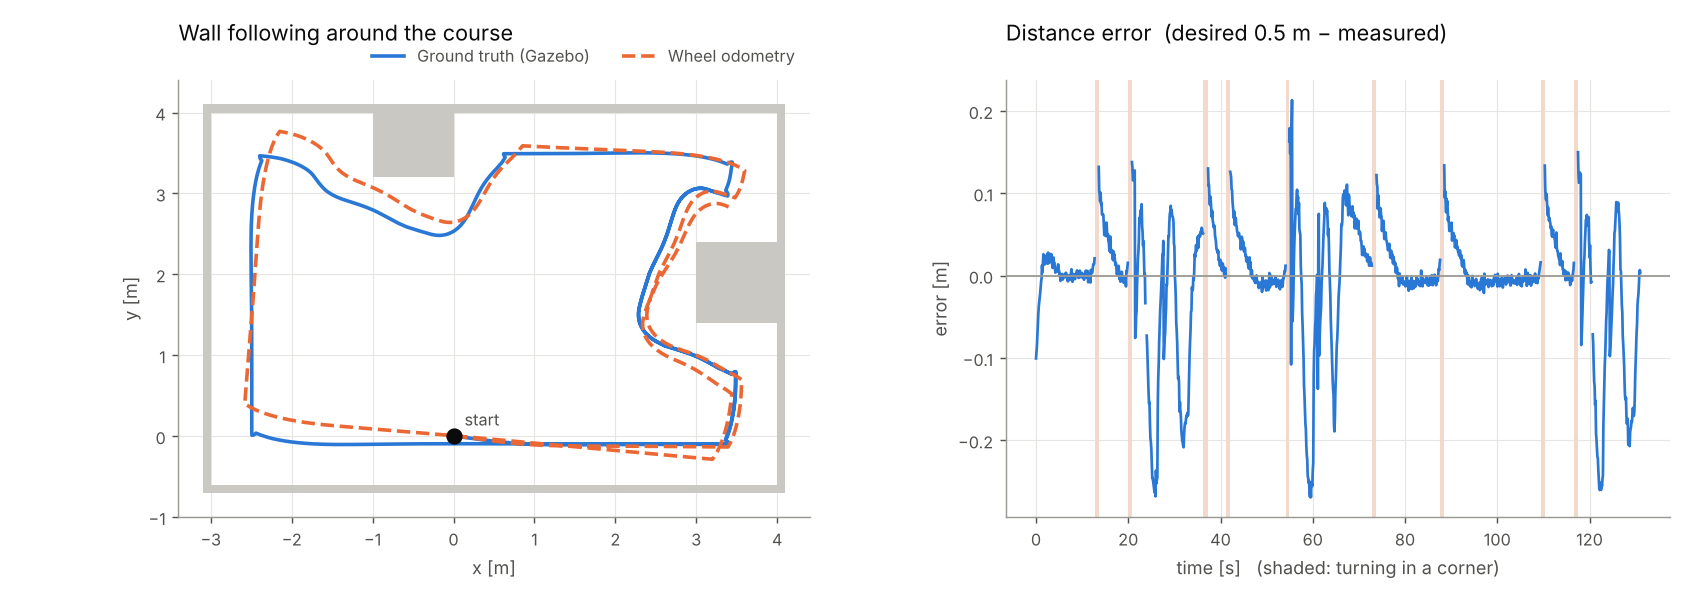
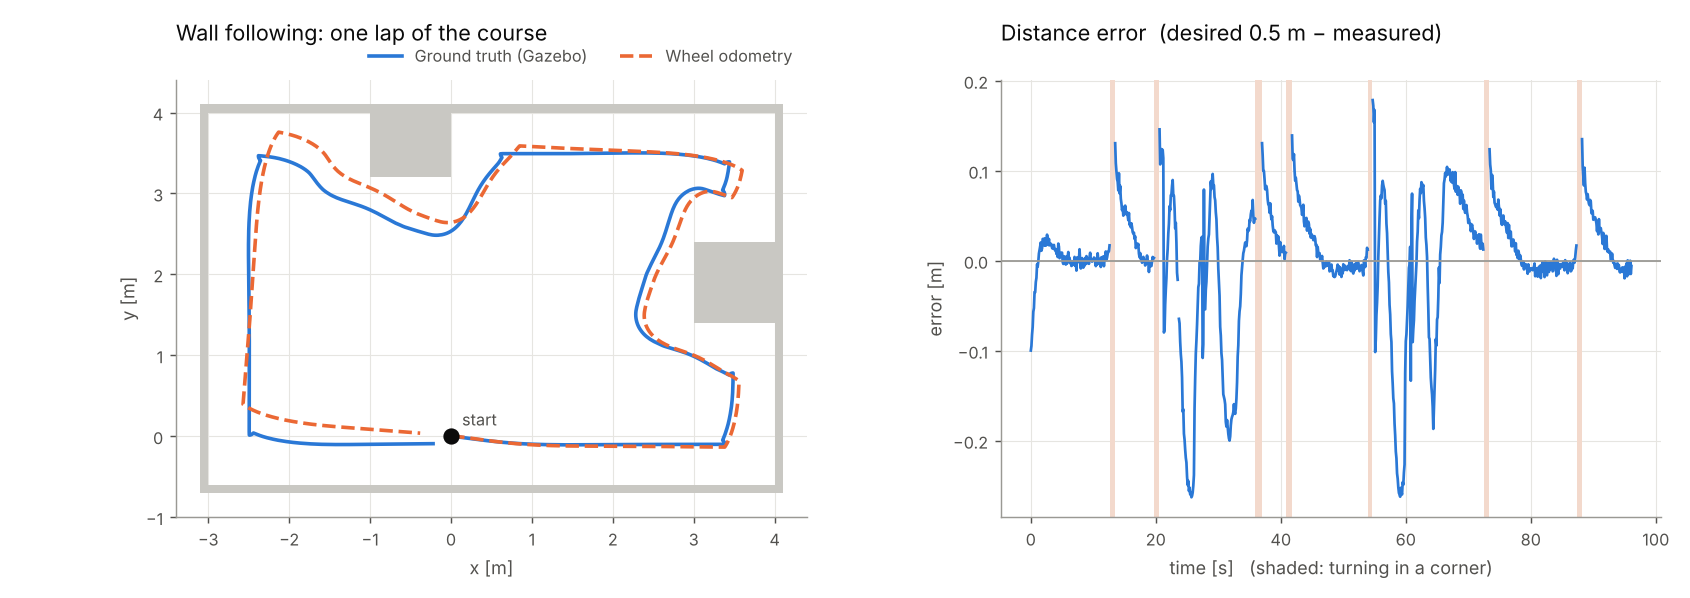
Update results to match latest logs

diff --git a/README.md b/README.md
@@ -25,17 +25,17 @@ A two-wheeled differential-drive robot in **Gazebo Harmonic** that **follows wal
 
 ## Results (from a headless Gazebo run)
 
-**Wall following:** one lap of a course with straight walls plus inside and outside corners takes 97 s, and the robot never touches a wall (its centre stays at least 0.36 m from every wall).
+**Wall following:** one lap of a course with straight walls plus inside and outside corners takes 96 s, and the robot never touches a wall (its centre stays at least 0.37 m from every wall).
 
 ![Wall following trajectory and distance error](docs/media/wall_follow.png)
 
 | Metric (target distance 0.50 m) | Value |
 |---|---|
-| Median distance error while following | **2.2 cm** |
-| RMS distance error while following | 7.8 cm |
-| 90th percentile error | 13 cm (the peaks come right after corners) |
+| Median distance error while following | **2.5 cm** |
+| RMS distance error while following | 7.4 cm |
+| 90th percentile error | 11.8 cm (the peaks come right after corners) |
 
-**Waypoint following:** visits 5 waypoints and returns to the start in **31 s**, stopping within the 12 cm goal tolerance.
+**Waypoint following:** visits 5 waypoints and returns to the start in **31 s** (30.7 s), stopping at the 12 cm goal tolerance.
 
 ![Waypoint path and heading error](docs/media/waypoints.png)
 
